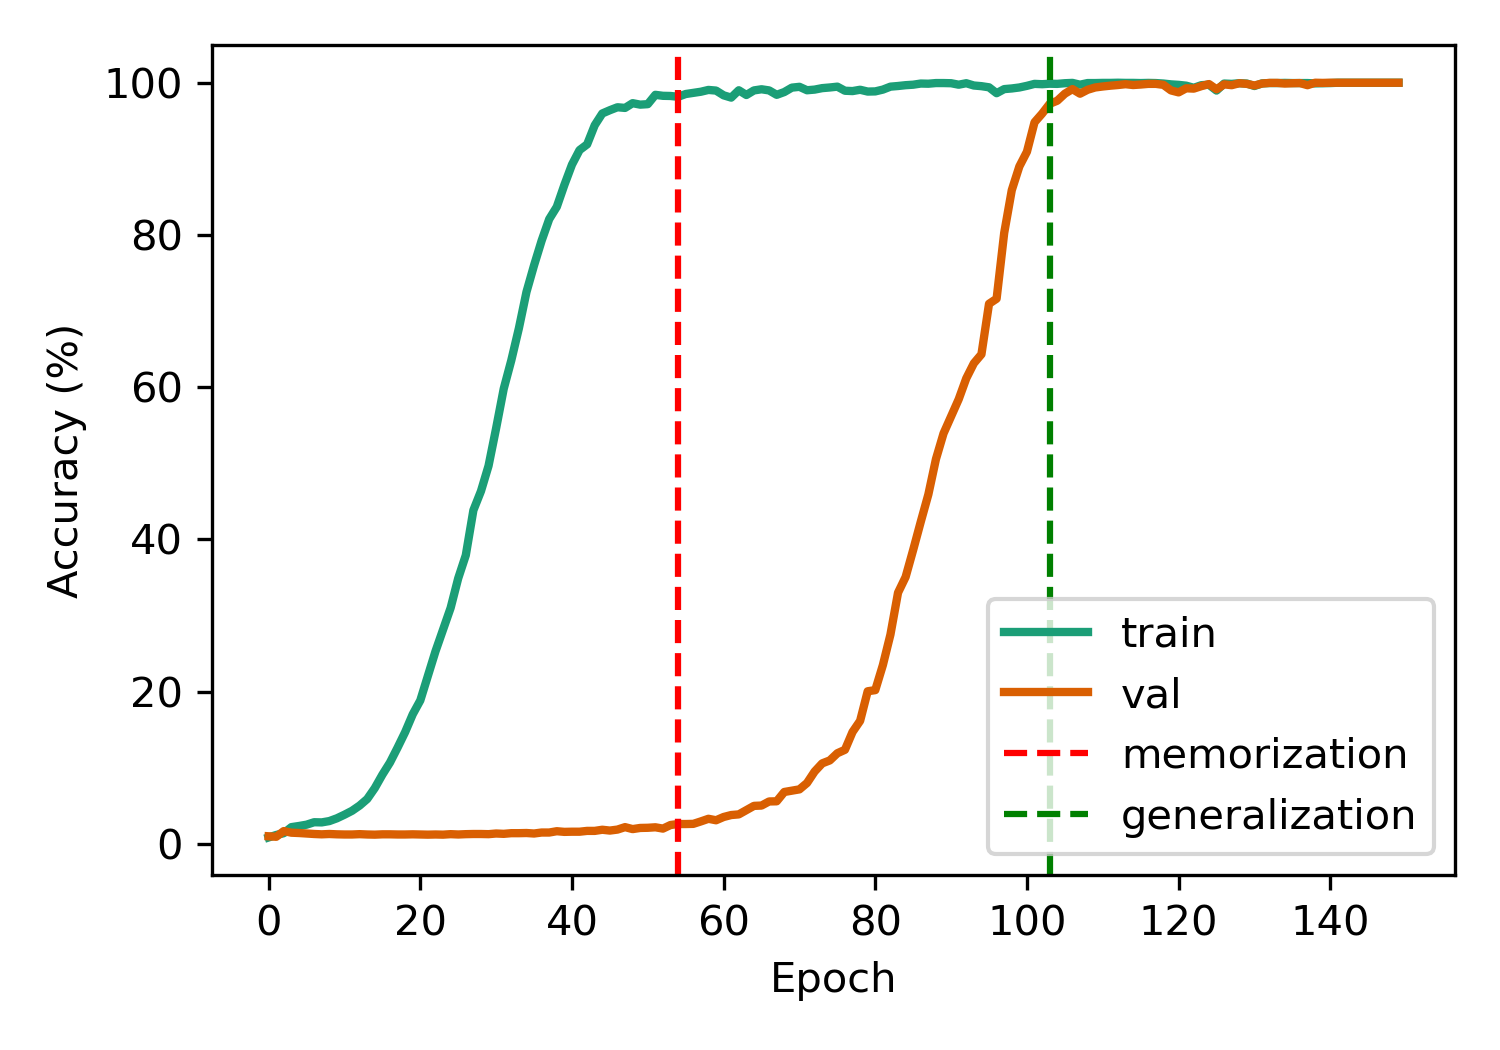
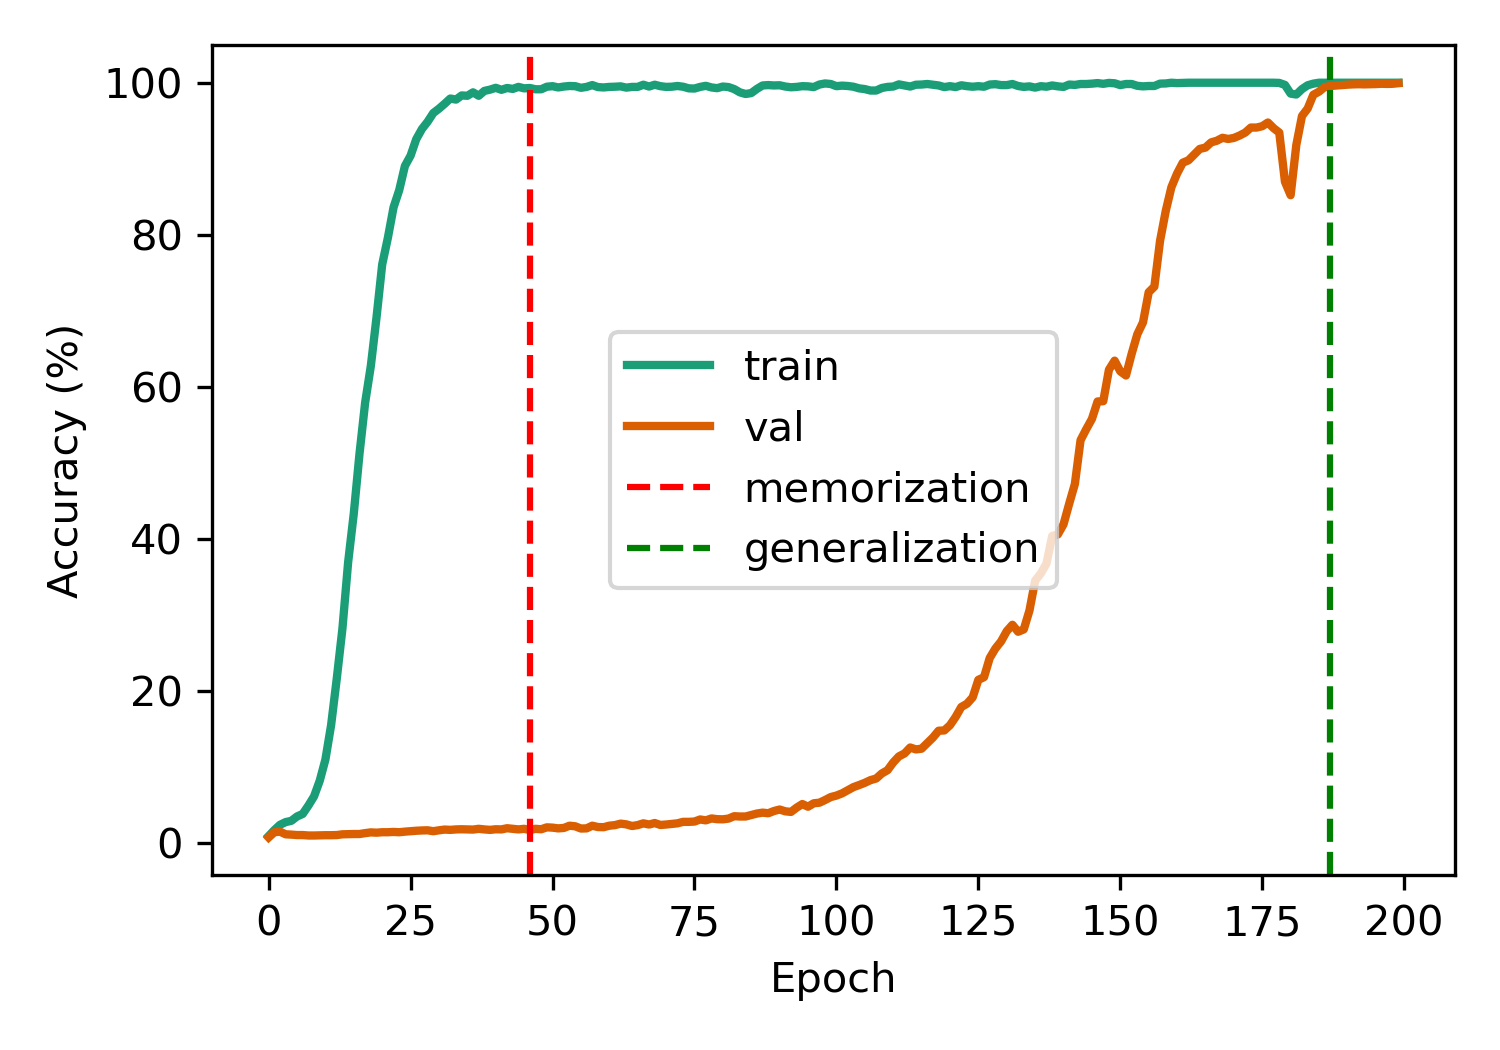
Change of some settings

diff --git a/main.py b/main.py
@@ -19,7 +19,7 @@ parser.add_argument('--p', type=int, default=97, help='prime number')
 parser.add_argument('--op', type=str, default='/',
                     help='operation', choices=['*', '/', '+', '-'])
 parser.add_argument('--train-fraction', type=float,
-                    default=0.5, help='train fraction')
+                    default=0.45, help='train fraction')
 # model args
 parser.add_argument('--depth', type=int, default=2, help='depth')
 parser.add_argument('--dim', type=int, default=128, help='dimension')
@@ -36,7 +36,7 @@ parser.add_argument('--warmup', type=int, default=10, help='warmup steps')
 parser.add_argument('-b', '--batch_size', type=int,
                     default=512, help='batch size')
 parser.add_argument('-e', '--epochs', type=int,
-                    default=150, help='number of epochs')
+                    default=200, help='number of epochs')
 # misc args
 parser.add_argument('--seed', type=int, default=random.randint(0,1000), help='random seed')
 parser.add_argument('--cpu', action='store_true', help='use cpu only')
@@ -195,7 +195,7 @@ class NeuralNetwork:
             postfix.update({'val_loss': f'{avg_val_loss:.3f}',
                             'val_acc': f'{avg_val_acc:.3f}'})
 
-            if avg_train_acc > 0.97 and avg_val_acc < 0.5 and padded_access(self.train_error_trace, -2) - padded_access(self.train_error_trace, -1) < 0.005 and self.memorization_epoch is None:
+            if avg_train_acc > 0.97 and avg_val_acc < 0.7 and padded_access(self.train_error_trace, -2) - padded_access(self.train_error_trace, -1) < 0.005 and self.memorization_epoch is None:
                 print(f"Memorization happened at epoch {epoch}!")
                 self.memorization_epoch = epoch
                 if self.memorization_hessian_eigenvalues is None:
@@ -209,12 +209,12 @@ class NeuralNetwork:
                     finally:
                         self.model.train()
                     top = self.memorization_hessian_eigenvalues
-                    print(np.sum(top * (top < 0)))
                     self.memorization_hessian_negative_eigenvalues = int(np.sum(top < 0))
                     print(
                         f"Negative Hessian eigenvalues among top {len(top)} at memorization: "
                         f"{self.memorization_hessian_negative_eigenvalues}"
                     )
+                    print("These are: " + f"{np.sort(top)[0:self.memorization_hessian_negative_eigenvalues]}")
             if avg_train_acc > 0.97 and avg_val_acc > 0.97 and padded_access(self.train_error_trace, -2) - padded_access(self.train_error_trace, -1) < 0.005 and len(self.generalization_epochs) == 0:
                 print(f"Generalization happened at epoch {epoch}!")
                 self.generalization_epochs.append(epoch)
@@ -226,12 +226,12 @@ class NeuralNetwork:
                 finally:
                     self.model.train()
                 negative_count = int(np.sum(hessian_eigenvalues < 0))
-                print(np.sum(hessian_eigenvalues * (hessian_eigenvalues < 0)))
                 self.generalization_hessian_negative_eigenvalues.append(negative_count)
                 print(
                     f"Negative Hessian eigenvalues among top {len(hessian_eigenvalues)} at generalization: "
                     f"{negative_count}"
                 )
+                print("These are: " + f"{np.sort(hessian_eigenvalues)[0:negative_count]}")
 
             epoch_bar.set_postfix(postfix)
 
